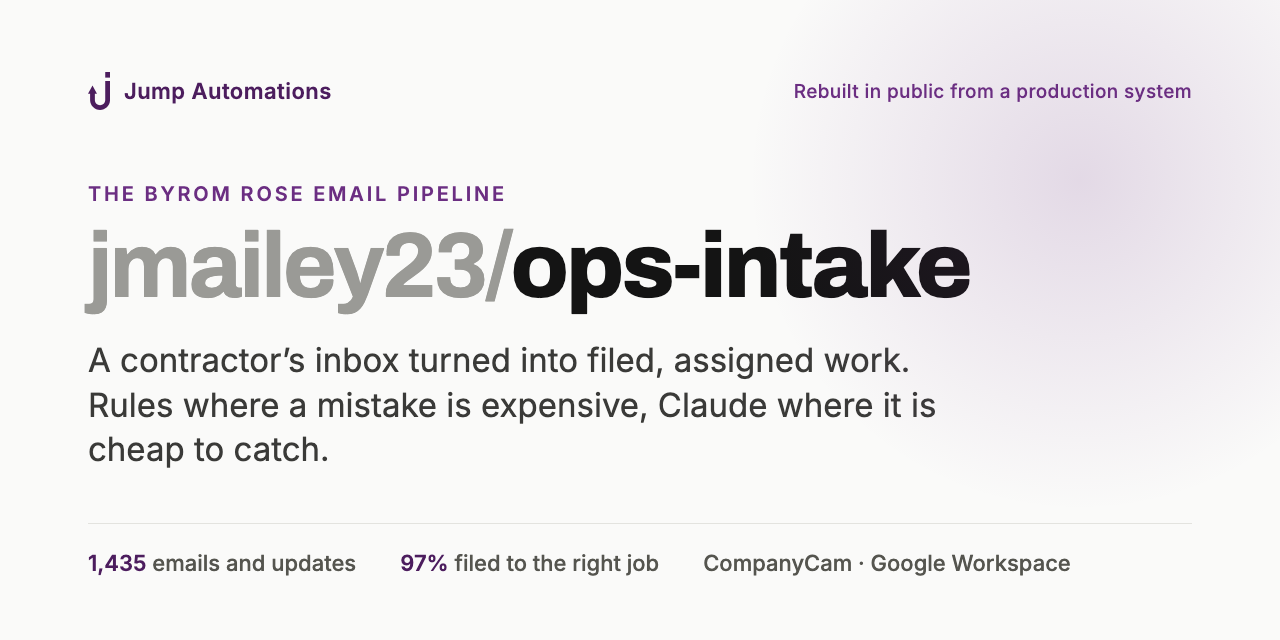
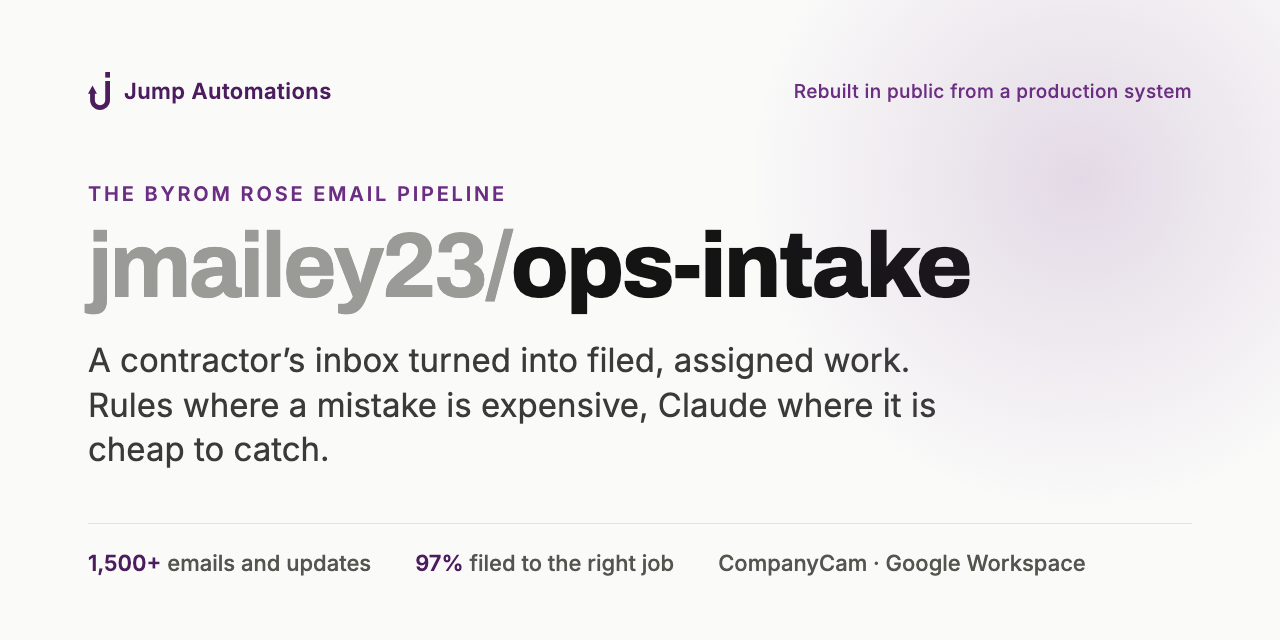
Numbers as of Nov 24 2026: BRC 1,504 messages and 198 CompanyCam projects, CPK 140 clients and 130+ welcome emails, Snailmail 731,226 messages

Changed region(s): [[0.0625, 0.8438, 0.8438, 0.9062]]

diff --git a/README.md b/README.md
@@ -40,10 +40,10 @@ flowchart LR
 
 ## In production
 
-The private system this comes from has run since the end of July 2026 for a remodeling company in Dallas. Mail arrives straight from the company's Google Workspace inbox, and the job list comes from CompanyCam, where the crew already works. As of November 18, 2026:
+The private system this comes from has run since the end of July 2026 for a remodeling company in Dallas. Mail arrives straight from the company's Google Workspace inbox, and the job list comes from CompanyCam, where the crew already works. As of November 24, 2026:
 
-- 1,435 inbound messages through the pipeline: 1,387 emails since September 3, plus 47 project updates from the summer, when jobs still lived in JobTread
-- 195 CompanyCam projects synced; each new project becomes a job within seconds of a webhook, pinned on the map
+- 1,504 inbound messages through the pipeline: 1,453 emails, plus project updates from the summer, when jobs still lived in JobTread, and text notes
+- 198 CompanyCam projects synced; each new project becomes a job within seconds of a webhook, pinned on the map
 - Supabase Postgres, Deno edge functions, row level security across eight roles, from owner to subcontractor
 
 At the October 5 audit, 74 of the 76 job related items had filed themselves to the right job with no human sorting (97 percent), the other 2 were filed by a person, and 16 items had stopped at the owner instead of being acted on.
